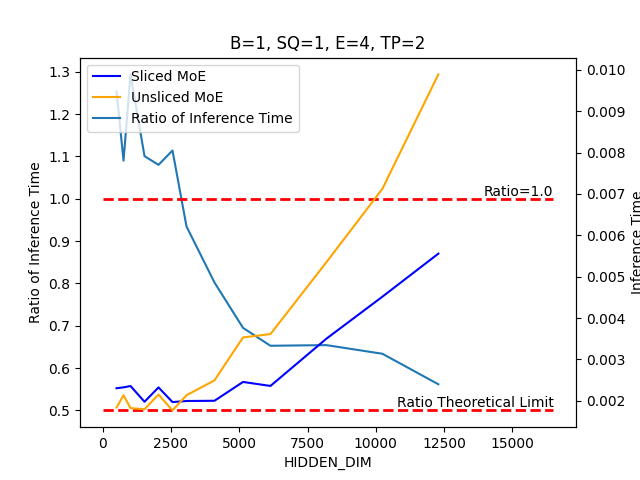
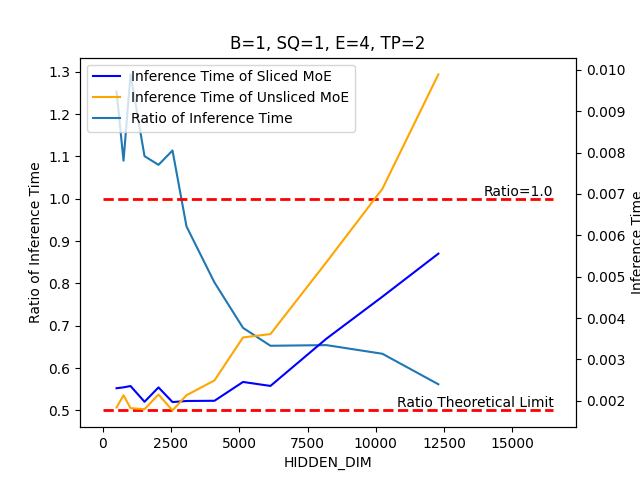
更新图表

Changed region(s): [[0.1875, 0.125, 0.5625, 0.2188]]

diff --git a/expert_slicing/plot.py b/expert_slicing/plot.py
@@ -1,8 +1,5 @@
 import matplotlib.pyplot as plt
 
-B = 8
-SQ = 1024
-
 def plot(w, e, tp):
     s = f"_W{w}_E{e}_TP{tp}"
     with open(f"res_B{B}_SQ{SQ}/results"+s+".txt", "r") as f:
@@ -108,11 +105,13 @@ def all_plot(w, e, tp):
     ax2.set_ylabel("Inference Time")
     p1, = ax2.plot(x, sliced_time, color='blue')
     p2, = ax2.plot(x, unsliced_time, color='orange')
-    plt.legend([p1, p2, p], ["Sliced MoE", "Unsliced MoE", "Ratio of Inference Time"])
+    plt.legend([p1, p2, p], ["Inference Time of Sliced MoE", "Inference Time of Unsliced MoE", "Ratio of Inference Time"])
     # 添加标题： title
     plt.title(f"B={B}, SQ={SQ}, E={e}, TP={tp}")
     plt.savefig(f"pics_B{B}_SQ{SQ}/pics"+s+"/all_line"+s+".png")
 
+B = 1
+SQ = 1
 print(f"Plotting B={B} SQ={SQ}")
 args =[(2,2,2), (2,4,2), (4,4,2), (4,4,4)]
 for arg in args:
